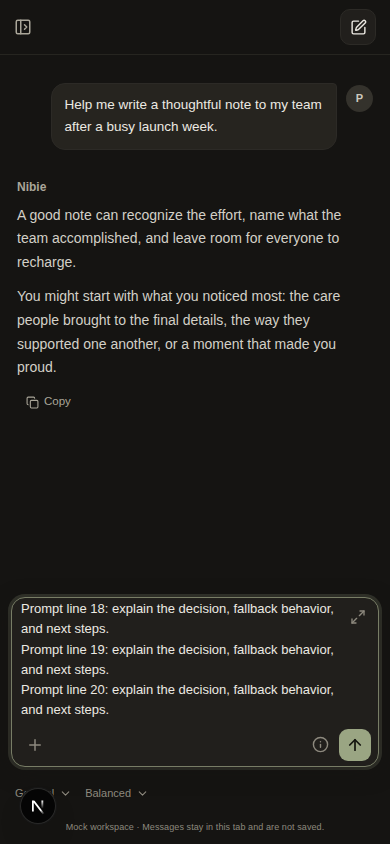
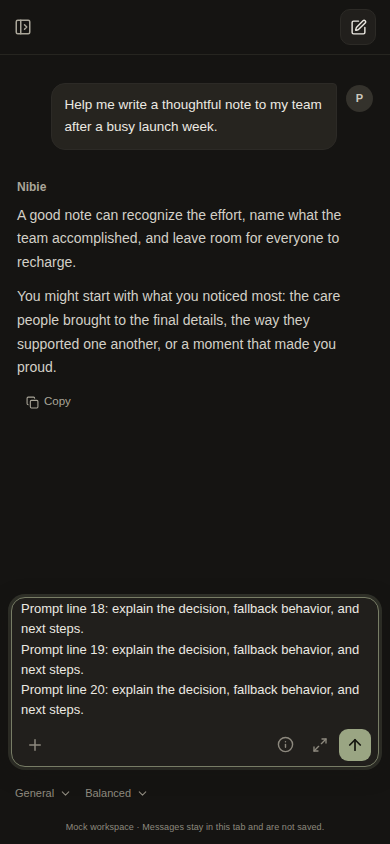
fix(ui): restore toolbar expand and full-screen editor

diff --git a/tests/e2e/chat-composer-layout.spec.ts b/tests/e2e/chat-composer-layout.spec.ts
@@ -128,14 +128,16 @@ test("expand affordance tracks actual textarea overflow", async ({ page }) => {
   const shortDraftHeight = await textarea.evaluate((element) => element.getBoundingClientRect().height);
   await textarea.fill(Array.from({ length: 20 }, (_, i) => `Prompt line ${i + 1}`).join("\n"));
   await expect(expand).toBeVisible();
-  const [textareaBox, expandBox] = await Promise.all([textarea.boundingBox(), expand.boundingBox()]);
-  expect(textareaBox).not.toBeNull();
+  const actions = page.locator(".composer-actions");
+  const [actionsBox, expandBox] = await Promise.all([actions.boundingBox(), expand.boundingBox()]);
+  expect(actionsBox).not.toBeNull();
   expect(expandBox).not.toBeNull();
-  expect(expandBox!.x).toBeGreaterThanOrEqual(textareaBox!.x + textareaBox!.width - expandBox!.width - 1);
-  expect(expandBox!.x + expandBox!.width).toBeLessThanOrEqual(textareaBox!.x + textareaBox!.width + 1);
-  expect(expandBox!.y).toBeGreaterThanOrEqual(textareaBox!.y - 1);
-  expect(expandBox!.y + expandBox!.height).toBeLessThanOrEqual(textareaBox!.y + textareaBox!.height + 1);
-  await expect(page.locator(".composer-actions").getByRole("button", { name: "Expand composer" })).toHaveCount(0);
+  expect(expandBox!.x).toBeGreaterThanOrEqual(actionsBox!.x - 1);
+  expect(expandBox!.x + expandBox!.width).toBeLessThanOrEqual(actionsBox!.x + actionsBox!.width + 1);
+  expect(expandBox!.y).toBeGreaterThanOrEqual(actionsBox!.y - 1);
+  expect(expandBox!.y + expandBox!.height).toBeLessThanOrEqual(actionsBox!.y + actionsBox!.height + 1);
+  await expect(actions.getByRole("button", { name: "Expand composer" })).toBeVisible();
+  await expect(page.locator(".composer-input-wrap").getByRole("button", { name: "Expand composer" })).toHaveCount(0);
   const geometry = await expectComposerGeometry(page);
   expect(geometry.textareaBottom).toBeLessThanOrEqual(geometry.actionsTop + 1);
   await textarea.fill("Short again");
@@ -147,6 +149,47 @@ test("expand affordance tracks actual textarea overflow", async ({ page }) => {
   await expect(expand).toHaveCount(0);
 });
 
+test("Expand opens a full-screen composer layer at desktop and mobile widths", async ({ page }) => {
+  for (const { width, height } of [{ width: 1440, height: 900 }, { width: 390, height: 844 }]) {
+    await openSampleConversation(page, width, height);
+    const textarea = page.getByRole("textbox", { name: "Message Nibie" });
+    await textarea.fill(Array.from({ length: 20 }, (_, index) => `Prompt line ${index + 1}`).join("\n"));
+    const expand = page.locator(".composer-actions").getByRole("button", { name: "Expand composer" });
+    await expect(expand).toBeVisible();
+    await expect(page.locator(".composer-input-wrap").getByRole("button", { name: "Expand composer" })).toHaveCount(0);
+    await expand.click();
+    const dialog = page.getByRole("dialog", { name: "Expanded message composer" });
+    await expect(dialog).toBeVisible();
+    await expect(dialog).toHaveAttribute("aria-modal", "true");
+    const collapse = page.getByRole("button", { name: "Collapse composer" });
+    await expect(collapse).toBeVisible();
+    const [dockBox, composerBox] = await Promise.all([page.locator(".composer-dock").boundingBox(), page.locator(".composer.is-expanded").boundingBox()]);
+    expect(dockBox).not.toBeNull();
+    expect(composerBox).not.toBeNull();
+    for (const box of [dockBox!, composerBox!]) {
+      expect(Math.abs(box.x)).toBeLessThanOrEqual(1);
+      expect(Math.abs(box.y)).toBeLessThanOrEqual(1);
+      expect(Math.abs(box.width - width)).toBeLessThanOrEqual(1);
+      expect(Math.abs(box.height - height)).toBeLessThanOrEqual(1);
+    }
+    await expect.poll(() => page.locator(".chat-header").evaluate((element) => (element as HTMLElement).inert)).toBe(true);
+    await expect.poll(() => page.locator(".workspace-sidebar").evaluate((element) => (element as HTMLElement).inert)).toBe(true);
+    const send = page.getByRole("button", { name: "Send message" });
+    await send.focus();
+    await page.keyboard.press("Tab");
+    await expect(collapse).toBeFocused();
+    await page.keyboard.press("Shift+Tab");
+    await expect(send).toBeFocused();
+    await page.locator(".chat-header .header-new-chat").evaluate((element) => (element as HTMLElement).focus());
+    await expect(send).toBeFocused();
+    await page.keyboard.press("Escape");
+    await expect(dialog).toHaveCount(0);
+    await expect(textarea).toBeFocused();
+    await expect.poll(() => page.locator(".chat-header").evaluate((element) => (element as HTMLElement).inert)).toBe(false);
+    await expect.poll(() => page.locator(".workspace-sidebar").evaluate((element) => (element as HTMLElement).inert)).toBe(false);
+  }
+});
+
 test("expand and collapse preserve draft, focus, selection, and send reset", async ({ page }) => {
   await openSampleConversation(page, 390, 844);
   const textarea = page.getByRole("textbox", { name: "Message Nibie" });
@@ -154,14 +197,16 @@ test("expand and collapse preserve draft, focus, selection, and send reset", asy
   await textarea.fill(draft);
   const expand = page.getByRole("button", { name: "Expand composer" });
   await expect(expand).toBeVisible();
-  const [textareaBox, expandBox] = await Promise.all([textarea.boundingBox(), expand.boundingBox()]);
-  expect(textareaBox).not.toBeNull();
+  const actions = page.locator(".composer-actions");
+  const [actionsBox, expandBox] = await Promise.all([actions.boundingBox(), expand.boundingBox()]);
+  expect(actionsBox).not.toBeNull();
   expect(expandBox).not.toBeNull();
-  expect(expandBox!.x).toBeGreaterThanOrEqual(textareaBox!.x + textareaBox!.width - expandBox!.width - 1);
-  expect(expandBox!.x + expandBox!.width).toBeLessThanOrEqual(textareaBox!.x + textareaBox!.width + 1);
-  expect(expandBox!.y).toBeGreaterThanOrEqual(textareaBox!.y - 1);
-  expect(expandBox!.y + expandBox!.height).toBeLessThanOrEqual(textareaBox!.y + textareaBox!.height + 1);
-  await expect(page.locator(".composer-actions").getByRole("button", { name: "Expand composer" })).toHaveCount(0);
+  expect(expandBox!.x).toBeGreaterThanOrEqual(actionsBox!.x - 1);
+  expect(expandBox!.x + expandBox!.width).toBeLessThanOrEqual(actionsBox!.x + actionsBox!.width + 1);
+  expect(expandBox!.y).toBeGreaterThanOrEqual(actionsBox!.y - 1);
+  expect(expandBox!.y + expandBox!.height).toBeLessThanOrEqual(actionsBox!.y + actionsBox!.height + 1);
+  await expect(actions.getByRole("button", { name: "Expand composer" })).toBeVisible();
+  await expect(page.locator(".composer-input-wrap").getByRole("button", { name: "Expand composer" })).toHaveCount(0);
   await expand.click();
   await expect(page.getByRole("button", { name: "Collapse composer" })).toBeVisible();
   await page.getByRole("button", { name: "Collapse composer" }).click();
@@ -171,8 +216,6 @@ test("expand and collapse preserve draft, focus, selection, and send reset", asy
   await expect(textarea).toBeFocused();
   await expect(textarea).toHaveValue(draft);
   await expect.poll(() => textarea.evaluate((element) => element.getBoundingClientRect().height)).toBeGreaterThan(compactHeight);
-  const expandedLayout = await expectComposerGeometry(page);
-  expect(expandedLayout.textareaBottom).toBeLessThanOrEqual(expandedLayout.actionsTop + 1);
   await expect.poll(() => textarea.evaluate((element) => (element as HTMLTextAreaElement).selectionStart)).toBe(12);
   await expect.poll(() => textarea.evaluate((element) => (element as HTMLTextAreaElement).selectionEnd)).toBe(24);
 

diff --git a/components/chat-composer.tsx b/components/chat-composer.tsx
@@ -59,6 +59,7 @@ export const ChatComposer = memo(function ChatComposer({ ref, dockRef, sending, 
   const [canExpand, setCanExpand] = useState(false);
   const [enterToSend] = useChatFlag("enterToSend");
   const textareaRef = useRef<HTMLTextAreaElement>(null);
+  const composerRef = useRef<HTMLDivElement>(null);
   const fileInputRef = useRef<HTMLInputElement>(null);
   const [attachMenuOpen, setAttachMenuOpen] = useState(false);
   const [dragging, setDragging] = useState(false);
@@ -104,6 +105,25 @@ export const ChatComposer = memo(function ChatComposer({ ref, dockRef, sending, 
     window.addEventListener("resize", fit);
     fit();
     return () => { observer.disconnect(); window.removeEventListener("resize", fit); };
+  }, [expanded]);
+  useEffect(() => {
+    if (!expanded) return;
+    const dialog = composerRef.current;
+    const workspace = dialog?.closest<HTMLElement>(".chat-workspace");
+    if (!dialog || !workspace) return;
+    const inerted: { element: HTMLElement; wasInert: boolean }[] = [];
+    let branch: HTMLElement = dialog;
+    while (branch !== workspace) {
+      const parent = branch.parentElement;
+      if (!parent) break;
+      for (const sibling of Array.from(parent.children)) {
+        if (sibling === branch || !(sibling instanceof HTMLElement)) continue;
+        inerted.push({ element: sibling, wasInert: sibling.inert });
+        sibling.inert = true;
+      }
+      branch = parent;
+    }
+    return () => { for (const { element, wasInert } of inerted) element.inert = wasInert; };
   }, [expanded]);
 
   // Files can be attached while a reply streams, for the next message. A message waits for its attachments: none still reading, and none failed (a failed one is removed or retried first).
@@ -159,6 +179,17 @@ export const ChatComposer = memo(function ChatComposer({ ref, dockRef, sending, 
     const action = composerEnterAction({ key: event.key, shiftKey: event.shiftKey, metaKey: event.metaKey, ctrlKey: event.ctrlKey, composing: event.nativeEvent.isComposing, enterToSend });
     if (action === "send") { event.preventDefault(); submit(); }
   }
+  function handleExpandedKeyDown(event: KeyboardEvent<HTMLDivElement>) {
+    if (!expanded) return;
+    if (event.key === "Escape") { event.preventDefault(); toggleExpanded(); return; }
+    if (event.key !== "Tab") return;
+    const focusable = Array.from(formRef.current?.querySelectorAll<HTMLElement>('button:not(:disabled), textarea:not(:disabled), input:not(:disabled):not([tabindex="-1"]), select:not(:disabled), a[href], [tabindex]:not([tabindex="-1"])') ?? []).filter((element) => element.getClientRects().length > 0);
+    const first = focusable[0];
+    const last = focusable[focusable.length - 1];
+    if (!first || !last) return;
+    if (event.shiftKey && document.activeElement === first) { event.preventDefault(); last.focus(); }
+    else if (!event.shiftKey && document.activeElement === last) { event.preventDefault(); first.focus(); }
+  }
 
   function toggleExpanded() {
     const textarea = textareaRef.current;
@@ -178,15 +209,12 @@ export const ChatComposer = memo(function ChatComposer({ ref, dockRef, sending, 
 
   return <div ref={dockRef} className={`composer-dock${centered ? " is-centered" : ""}`}>
     {attachmentPanel}
-    <div className={`composer${expanded ? " is-expanded" : ""}${dragging ? " is-dropping" : ""}`}>
+    <div ref={composerRef} className={`composer${expanded ? " is-expanded" : ""}${dragging ? " is-dropping" : ""}`} role={expanded ? "dialog" : undefined} aria-modal={expanded ? "true" : undefined} aria-label={expanded ? "Expanded message composer" : undefined} onKeyDown={handleExpandedKeyDown}>
       <form ref={formRef} className={`composer-form${hasAttachments ? " has-attachments" : ""}${isActive ? " is-active" : ""}`} onSubmit={(event) => { event.preventDefault(); submit(); }}>
         {expanded ? <div className="composer-expanded-header"><span className="composer-expanded-label">Message</span><button className="composer-icon" type="button" aria-label="Collapse composer" title="Collapse composer" aria-expanded="true" onClick={toggleExpanded}><Minimize2 size={16} aria-hidden="true" /></button></div> : null}
         <div className="composer-content">
           <ComposerAttachments items={attachments.items} notice={attachments.notice} disabled={sending} onRemove={attachments.remove} onRetry={attachments.retry} />
-          <div className={`composer-input-wrap${!expanded && canExpand ? " has-expand" : ""}`}>
-            <textarea ref={textareaRef} aria-label="Message Nibie" placeholder="Ask Nibie anything..." enterKeyHint={enterToSend ? "send" : "enter"} value={draft} rows={1} onChange={(event) => { expandedBeforeClearRef.current = null; setDraft(event.target.value); }} onKeyDown={handleKeyDown} />
-            {!expanded && canExpand ? <button className="composer-icon composer-expand" type="button" aria-label="Expand composer" title="Expand composer" aria-expanded="false" onClick={toggleExpanded}><Maximize2 size={16} aria-hidden="true" /></button> : null}
-          </div>
+          <textarea ref={textareaRef} aria-label="Message Nibie" placeholder="Ask Nibie anything..." enterKeyHint={enterToSend ? "send" : "enter"} value={draft} rows={1} onChange={(event) => { expandedBeforeClearRef.current = null; setDraft(event.target.value); }} onKeyDown={handleKeyDown} />
         </div>
         {attachmentsEnabled ? <input ref={fileInputRef} className="composer-file-input" type="file" multiple accept={ATTACHMENT_ACCEPT} tabIndex={-1} aria-hidden="true" onChange={(event) => { attachments.add([...(event.target.files ?? [])]); event.target.value = ""; }} /> : null}
         <div className="composer-footer">
@@ -199,6 +227,7 @@ export const ChatComposer = memo(function ChatComposer({ ref, dockRef, sending, 
           </span>
           <div className="composer-actions">
             <ContextIndicator diagnostics={diagnostics} onEditProfile={onEditProfile} />
+            {!expanded && canExpand ? <button className="composer-icon composer-expand" type="button" aria-label="Expand composer" title="Expand composer" aria-expanded="false" onClick={toggleExpanded}><Maximize2 size={16} aria-hidden="true" /></button> : null}
             {streaming ? <button key="stop" className="send-button" type="button" aria-label="Stop response" onClick={onStop}><X size={18} /></button> : <button key="send" className="send-button" type="submit" aria-label="Send message" disabled={!draft.trim() || sending || attachmentsBlocked}>{sending ? <span className="send-spinner" /> : <ArrowUp size={18} strokeWidth={2.3} />}</button>}
           </div>
         </div>

diff --git a/app/globals.css b/app/globals.css
@@ -361,6 +361,8 @@ a.account-menu-action { font: inherit; text-decoration: none; }
 .composer-dock { position: relative; z-index: 1; flex: 0 0 auto; padding: 18px 28px 13px; background: linear-gradient(180deg, transparent 0%, color-mix(in srgb, var(--bg-app) 93%, transparent) 17%, var(--bg-app) 38%); }
 .composer-dock.is-centered { position: static; width: min(100%, 760px); padding: 0; background: none; }
 .welcome-state:has(.composer-form.is-active) .composer-dock.is-centered { position: relative; z-index: 1; flex: 0 0 auto; width: 100%; padding: 18px 28px 13px; background: linear-gradient(180deg, transparent 0%, color-mix(in srgb, var(--bg-app) 93%, transparent) 17%, var(--bg-app) 38%); }
+.composer-dock:has(.composer.is-expanded) { position: fixed; inset: 0; z-index: 1000; display: block; width: 100vw; height: 100dvh; padding: 0; overflow: hidden; background: var(--bg-app); }
+.composer-dock:has(.composer.is-expanded) > :not(.composer) { display: none; }
 .composer { display: flex; flex-direction: column; justify-content: center; gap: 4px; width: min(100%, 760px); min-height: 56px; margin: 0 auto; padding: 7px 9px 6px; border: 1px solid var(--border); border-radius: 15px; background: var(--bg-raised); box-shadow: var(--shadow-composer); transition: border-color .15s,box-shadow .15s; }
 .composer:focus-within { border-color: color-mix(in srgb, var(--accent) 62%, var(--border-strong)); box-shadow: var(--shadow-composer-focus); }
 .composer-form { display: grid; grid-template-columns: 32px minmax(0, 1fr) auto; grid-template-areas: "attach input actions"; align-items: end; column-gap: 6px; row-gap: 4px; width: 100%; min-width: 0; margin: 0; transition: row-gap .15s ease; }
@@ -368,22 +370,20 @@ a.account-menu-action { font: inherit; text-decoration: none; }
 .composer-form.is-active { grid-template-areas: "input input input" "attach . actions"; row-gap: 5px; }
 .composer-form.is-active.has-attachments { grid-template-areas: "attachments attachments attachments" "input input input" "attach . actions"; }
 .composer-content, .composer-footer { display: contents; }
-.composer-input-wrap { position: relative; display: flex; grid-area: input; min-width: 0; }
-.composer-input-wrap.has-expand textarea { padding-right: 36px; }
 .composer-attachments { grid-area: attachments; }
 .composer-attach { grid-area: attach; align-self: end; }
-.composer-input-wrap .composer-expand { position: absolute; top: 0; right: 0; z-index: 1; width: 26px; height: 26px; }
+.composer-expand { width: 26px; height: 26px; }
 .composer-expanded-header { grid-area: header; display: flex; align-items: center; justify-content: space-between; gap: 8px; min-height: 26px; }
 .composer-expanded-label { color: var(--text-4); font-size: 11px; line-height: 16px; }
 .composer textarea { display: block; width: 100%; min-width: 0; max-height: min(120px, 24dvh); min-height: 26px; padding: 3px 2px; resize: none; overflow-y: auto; scrollbar-width: thin; scrollbar-color: var(--border-strong) transparent; border: 0; outline: 0; background: transparent; color: var(--text); font-size: 13px; line-height: 1.55; }
+.composer-content > textarea { grid-area: input; }
 .composer-form.is-active .composer-attach, .composer-form.is-active .composer-actions { align-self: center; }
 .composer-form:not(.is-active) .composer-attach { align-self: center; }
 .composer-form:not(.is-active) textarea { align-self: center; transform: translateY(-1px); }
 .composer-form:not(.is-active) .send-button > svg { stroke-width: 2; }
-.composer.is-expanded { height: min(48dvh, 520px); min-height: 35dvh; max-height: 55dvh; }
+.composer.is-expanded { width: 100%; height: 100%; min-height: 0; max-height: none; margin: 0; padding: max(20px, env(safe-area-inset-top)) max(16px, env(safe-area-inset-right)) max(16px, env(safe-area-inset-bottom)) max(16px, env(safe-area-inset-left)); border: 0; border-radius: 0; background: var(--bg-app); box-shadow: none; }
 .composer.is-expanded .composer-form { display: flex; flex: 1 1 auto; flex-direction: column; align-items: stretch; gap: 4px; min-height: 0; }
 .composer.is-expanded .composer-content { display: flex; flex: 1 1 auto; flex-direction: column; gap: 4px; min-height: 0; overflow-y: auto; overscroll-behavior: contain; scrollbar-width: thin; scrollbar-color: var(--border-strong) transparent; }
-.composer.is-expanded .composer-input-wrap { display: flex; flex: 1 1 auto; flex-direction: column; min-height: 0; }
 .composer.is-expanded .composer-content::-webkit-scrollbar { width: 6px; }
 .composer.is-expanded .composer-content::-webkit-scrollbar-thumb { border-radius: 999px; background: var(--border-strong); }
 .composer.is-expanded .composer-attachments { flex: none; min-width: 0; margin: 0; }
@@ -649,7 +649,6 @@ a.account-menu-action { font: inherit; text-decoration: none; }
 @media (max-width: 760px) {
   .composer { gap: 4px; padding: 6px 7px 5px; border-radius: 14px; }
   .composer-form { column-gap: 4px; row-gap: 4px; }
-  .composer.is-expanded { height: min(42dvh, 360px); min-height: 35dvh; max-height: 55dvh; }
   .composer-actions { gap: 3px; }
   .composer-left-tools .composer-menu-button, .composer-room-context { max-width: min(140px, 34vw); min-height: 38px; padding-inline: 4px; font-size: 11px; }
   .composer-left-tools > .composer-menu { position: static; }
